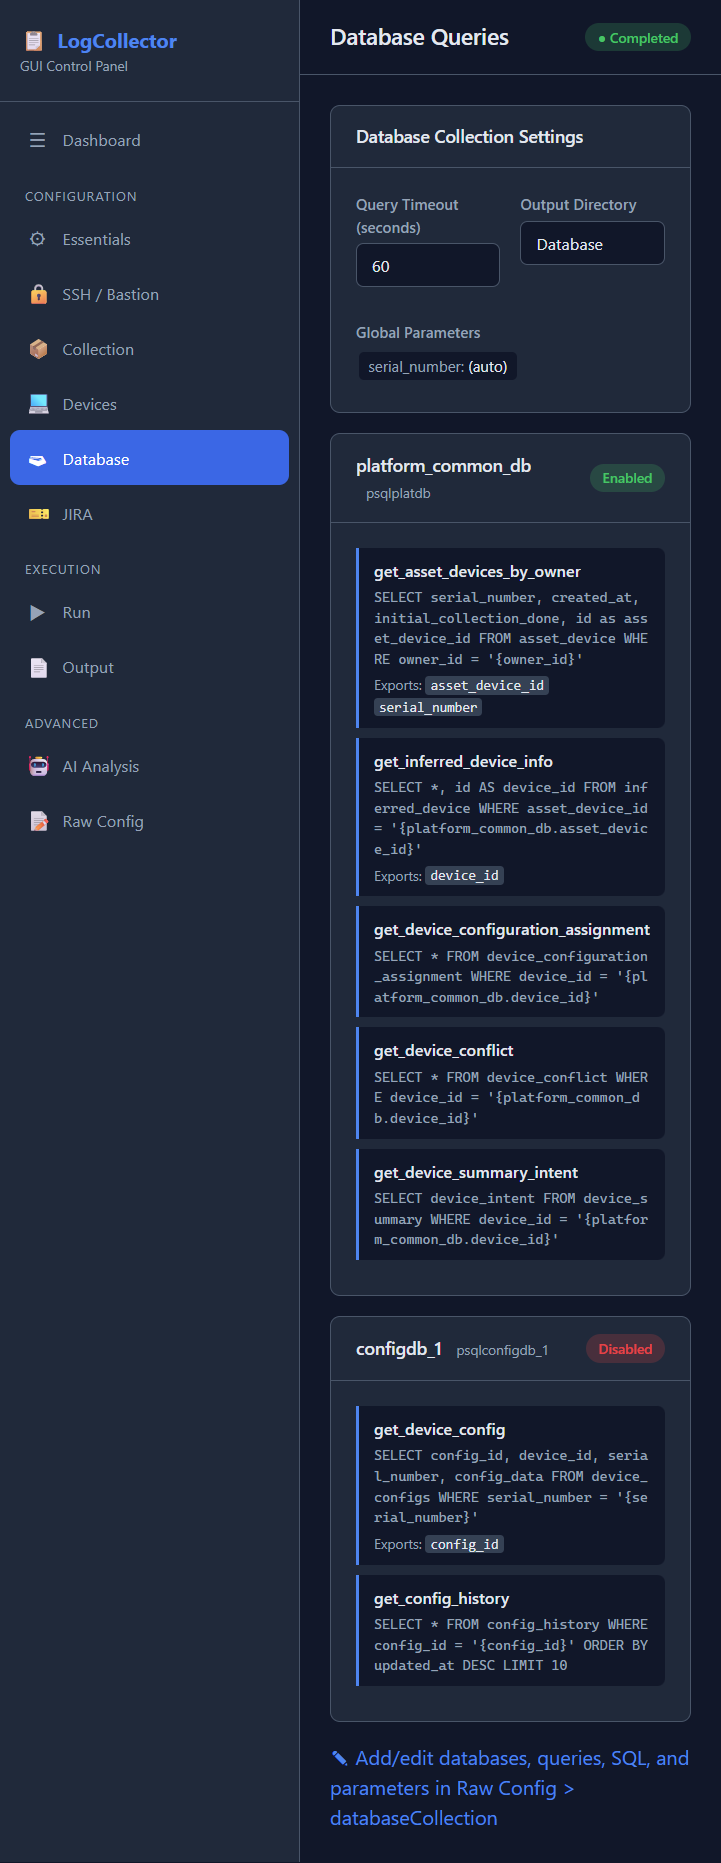
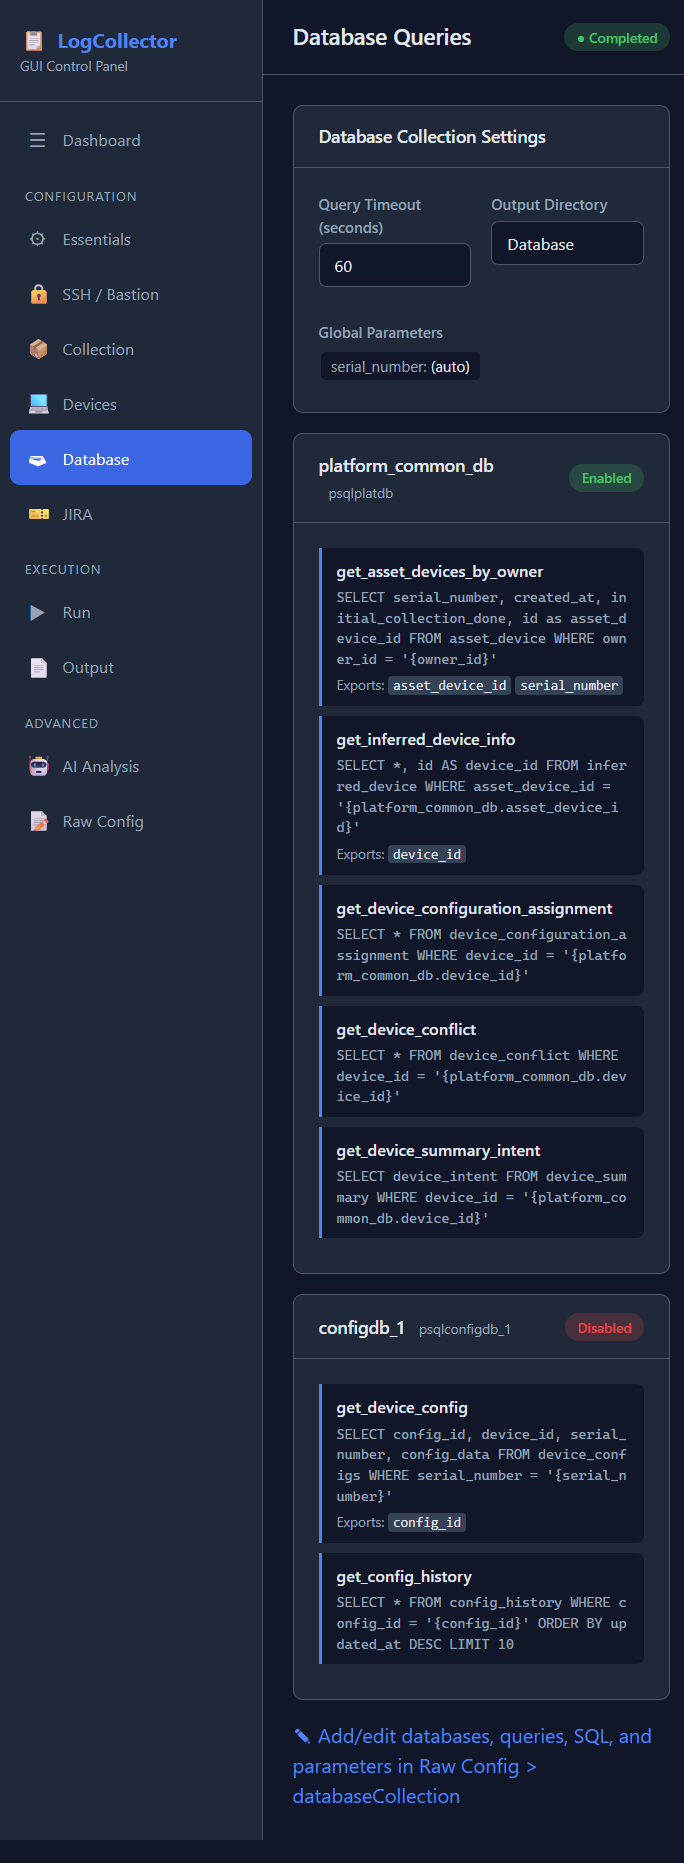
docs: re-capture GUI screenshots at consistent width, stack one-by-one, show Mermaid + ASCII diagrams

diff --git a/README.md b/README.md
@@ -67,8 +67,7 @@ flowchart LR
     AN -->|optional attach| JIRA
 ```
 
-<details>
-<summary>Text version of the diagram</summary>
+**Text version of the same architecture:**
 
 ```
                                                                     ┌──────────────────────┐
@@ -95,8 +94,6 @@ flowchart LR
 │              │◄─── SFTP/SCP ────│  switches         │
 └──────────────┘   (downloads)    └───────────────────┘
 ```
-
-</details>
 
 **Config mode flow** (no arguments):
 1. Reads `config.yaml` to determine which collections are enabled
@@ -258,13 +255,21 @@ The server runs at `http://127.0.0.1:<port>` and opens your browser automaticall
 
 #### Screenshots
 
-| Dashboard | Collection settings |
-|---|---|
-| ![Dashboard](docs/images/gui-dashboard.png) | ![Collection settings](docs/images/gui-collection.png) |
+**Dashboard** — environment overview, enabled sections, and quick actions
 
-| Database queries | AI Analysis |
-|---|---|
-| ![Database queries](docs/images/gui-database.png) | ![AI Analysis](docs/images/gui-aianalysis.png) |
+![Dashboard](docs/images/gui-dashboard.png)
+
+**Collection** — log collection settings, including the Temporal owner-ID filter and codec endpoint
+
+![Collection settings](docs/images/gui-collection.png)
+
+**Database** — query chain, including the conflict-resolution queries
+
+![Database queries](docs/images/gui-database.png)
+
+**AI Analysis** — LLM-driven root cause analysis
+
+![AI Analysis](docs/images/gui-aianalysis.png)
 
 #### Windows launcher: `run-gui.ps1`
 
